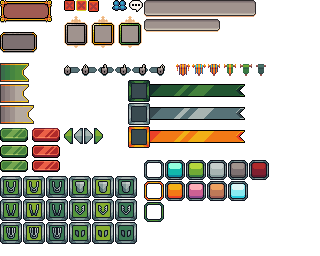
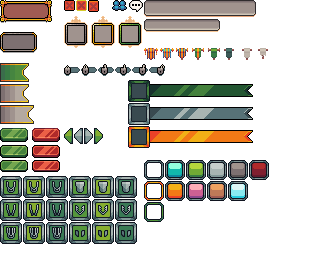
feat(client): guild page

diff --git a/packages/client/src/menu/guilds.ts b/packages/client/src/menu/guilds.ts
@@ -28,9 +28,8 @@ export default class Guilds extends Menu {
     private backButton: HTMLElement = document.querySelector('#guild-back')!;
     private createConfirmButton: HTMLButtonElement = document.querySelector('#guild-create')!;
 
+    // The colour buttons for the banner (used when creating a guild).
     private bannerColours: HTMLUListElement = document.querySelector('#banner-colours')!;
-    // private bannerOutlines: HTMLUListElement = document.querySelector('#banner-outline-colours')!;
-    // private bannerCrests: HTMLUListElement = document.querySelector('#banner-crests')!;
 
     private nameInput: HTMLInputElement = document.querySelector('#guild-name-input')!;
 
@@ -176,6 +175,7 @@ export default class Guilds extends Menu {
     private handleBackButton(): void {
         // Reset the banner decorations and update it.
         this.bannerColour = Modules.BannerColour.Grey;
+        this.bannerOutline = Modules.BannerOutline.StyleOne;
         this.bannerOutlineColour = Modules.BannerColour.GoldenYellow;
         this.bannerCrest = Modules.BannerCrests.None;
 
@@ -331,9 +331,6 @@ export default class Guilds extends Menu {
             case 'sidebar-members': {
                 this.memberList.style.display = 'block';
 
-                // Remove the active class from the other sidebar.
-                this.infoContainer.className = '';
-
                 // Hide the chat input.
                 this.chatInput.style.display = 'none';
 
@@ -346,9 +343,6 @@ export default class Guilds extends Menu {
             case 'sidebar-chat': {
                 // Hide the members list.
                 this.memberList.style.display = 'none';
-
-                // Add the chat class to the container.
-                this.infoContainer.className = 'guild-chat';
 
                 // Show the chat input.
                 this.chatInput.style.display = 'block';
@@ -659,8 +653,12 @@ export default class Guilds extends Menu {
 
         if (!element) return;
 
+        let image = element.querySelector('.slot-image');
+
+        if (!image) return;
+
         // Update the class name with the new rank information.
-        element.className = `slot-element slot-${Modules.GuildRank[rank].toLowerCase()} stroke`;
+        image.className = `slot-image slot-image-${Modules.GuildRank[rank].toLowerCase()}`;
     }
 
     /**
@@ -710,18 +708,23 @@ export default class Guilds extends Menu {
     ): void {
         let element = document.createElement('li') as ListElement,
             nameElement = document.createElement('span'),
+            imageElement = document.createElement('div'),
             isGuild = type === 'guild',
             slotType = type === 'guild' ? 'guild' : Modules.GuildRank[type].toLowerCase();
 
         // Assign the name as the identifier for the element
         element.identifier = name;
 
-        // Add the classes to the element and name element.
-        element.className = `slot-element slot-${slotType} stroke`;
+        // Add the classes to the element, name element, and image element.
+        element.className = `slot-element stroke`;
         nameElement.className = `name`;
+        imageElement.className = `slot-image`;
 
         // Set the name of the element, format it if it's a player name.
         nameElement.innerHTML = isGuild ? name : Util.formatName(name, 14);
+
+        // Add the image element first.
+        element.append(imageElement);
 
         // Conditional for dealing with guild element creation.
         if (isGuild) {
@@ -744,8 +747,11 @@ export default class Guilds extends Menu {
             );
         }
 
-        // Append just the name element.
+        // Case for when we are dealing with members within a guild.
         if (!isGuild) {
+            // Handle the image element for when we are in a guild.
+            imageElement.classList.add(`slot-image-${slotType}`);
+
             element.append(nameElement);
 
             let serverElement = document.createElement('span'),
@@ -753,7 +759,7 @@ export default class Guilds extends Menu {
 
             serverElement.className = `server ${isPlayer ? 'green' : 'red'}`;
 
-            serverElement.innerHTML = isPlayer ? 'Online' : 'Offline';
+            serverElement.innerHTML = isPlayer ? `Kaetram ${this.game.player.serverId}` : 'Offline';
 
             element.append(serverElement);
         }

diff --git a/packages/client/scss/game/impl/_guilds.scss b/packages/client/scss/game/impl/_guilds.scss
@@ -37,6 +37,10 @@
     right: 1px;
 }
 
+#guilds-info {
+    color: white;
+}
+
 #create-guild,
 #guild-back,
 #guild-create {
@@ -328,9 +332,9 @@
 
         .slot-element {
             box-sizing: border-box;
-            width: 117px * $i;
+            width: 125px * $i;
             height: 22px * $i;
-            padding-left: 18px * $i;
+            padding-left: 4px * $i;
 
             background: url('/img/interface/guilds/elements.png') -128px * $i -103px * $i;
             background-size: calc(width('guilds/elements.png') * $i);
@@ -342,6 +346,14 @@
             &:active,
             &.active {
                 background-position-y: -80px * $i;
+            }
+
+            span.name {
+                margin-left: 6px * $i;
+            }
+
+            span.server {
+                margin-right: 10px * $i;
             }
         }
 
@@ -469,36 +481,45 @@
             background-position-x: -94px * $i;
         }
 
-        .slot-fledgling {
-            background-position-y: 0;
+        .slot-image {
+            width: 14px * $i;
+            height: 14px * $i;
+            margin-top: 3px * $i;
+
+            background: url('/img/interface/guilds/elements.png') no-repeat;
+            background-size: calc(width('guilds/elements.png') * $i);
         }
 
-        .slot-emergent {
-            background-position-y: -18px * $i;
+        .slot-image-fledgling {
+            background-position: -256px * $i -48px * $i;
         }
 
-        .slot-established {
-            background-position-y: -36px * $i;
+        .slot-image-emergent {
+            background-position: -240px * $i -48px * $i;
         }
 
-        .slot-adept {
-            background-position-y: -54px * $i;
+        .slot-image-established {
+            background-position: -224px * $i -48px * $i;
         }
 
-        .slot-veteran {
-            background-position-y: -72px * $i;
+        .slot-image-adept {
+            background-position: -208px * $i -48px * $i;
         }
 
-        .slot-elite {
-            background-position-y: -90px * $i;
+        .slot-image-veteran {
+            background-position: -192px * $i -48px * $i;
         }
 
-        .slot-master {
-            background-position-y: -108px * $i;
+        .slot-image-elite {
+            background-position: -176px * $i -48px * $i;
         }
 
-        .slot-landlord {
-            background-position-y: -126px * $i;
+        .slot-image-master {
+            background-position: -160px * $i -48px * $i;
+        }
+
+        .slot-image-landlord {
+            background-position: -144px * $i -48px * $i;
         }
 
         .banner,

diff --git a/packages/client/index.html b/packages/client/index.html
@@ -1106,7 +1106,7 @@
 
                         <ul></ul>
 
-                        <p id="guilds-info">There are no guilds available...</p>
+                        <p id="guilds-info" class="stroke">There are no guilds available...</p>
                     </div>
 
                     <div id="guilds-create-container" class="container-subframe">

diff --git a/packages/common/network/modules.ts b/packages/common/network/modules.ts
@@ -600,7 +600,7 @@ export const Constants = {
     COLD_EFFECT_DAMAGE: 10,
     BURNING_EFFECT_DAMAGE: 20,
     ATTACKER_TIMEOUT: 20_000, // 20 seconds
-    MAX_GUILD_MEMBERS: 40, // Maximum number of members in a guild
+    MAX_GUILD_MEMBERS: 50, // Maximum number of members in a guild
     EVENTS_CHECK_INTERVAL: 3_600_000 // Every 1 hour
 };
 
